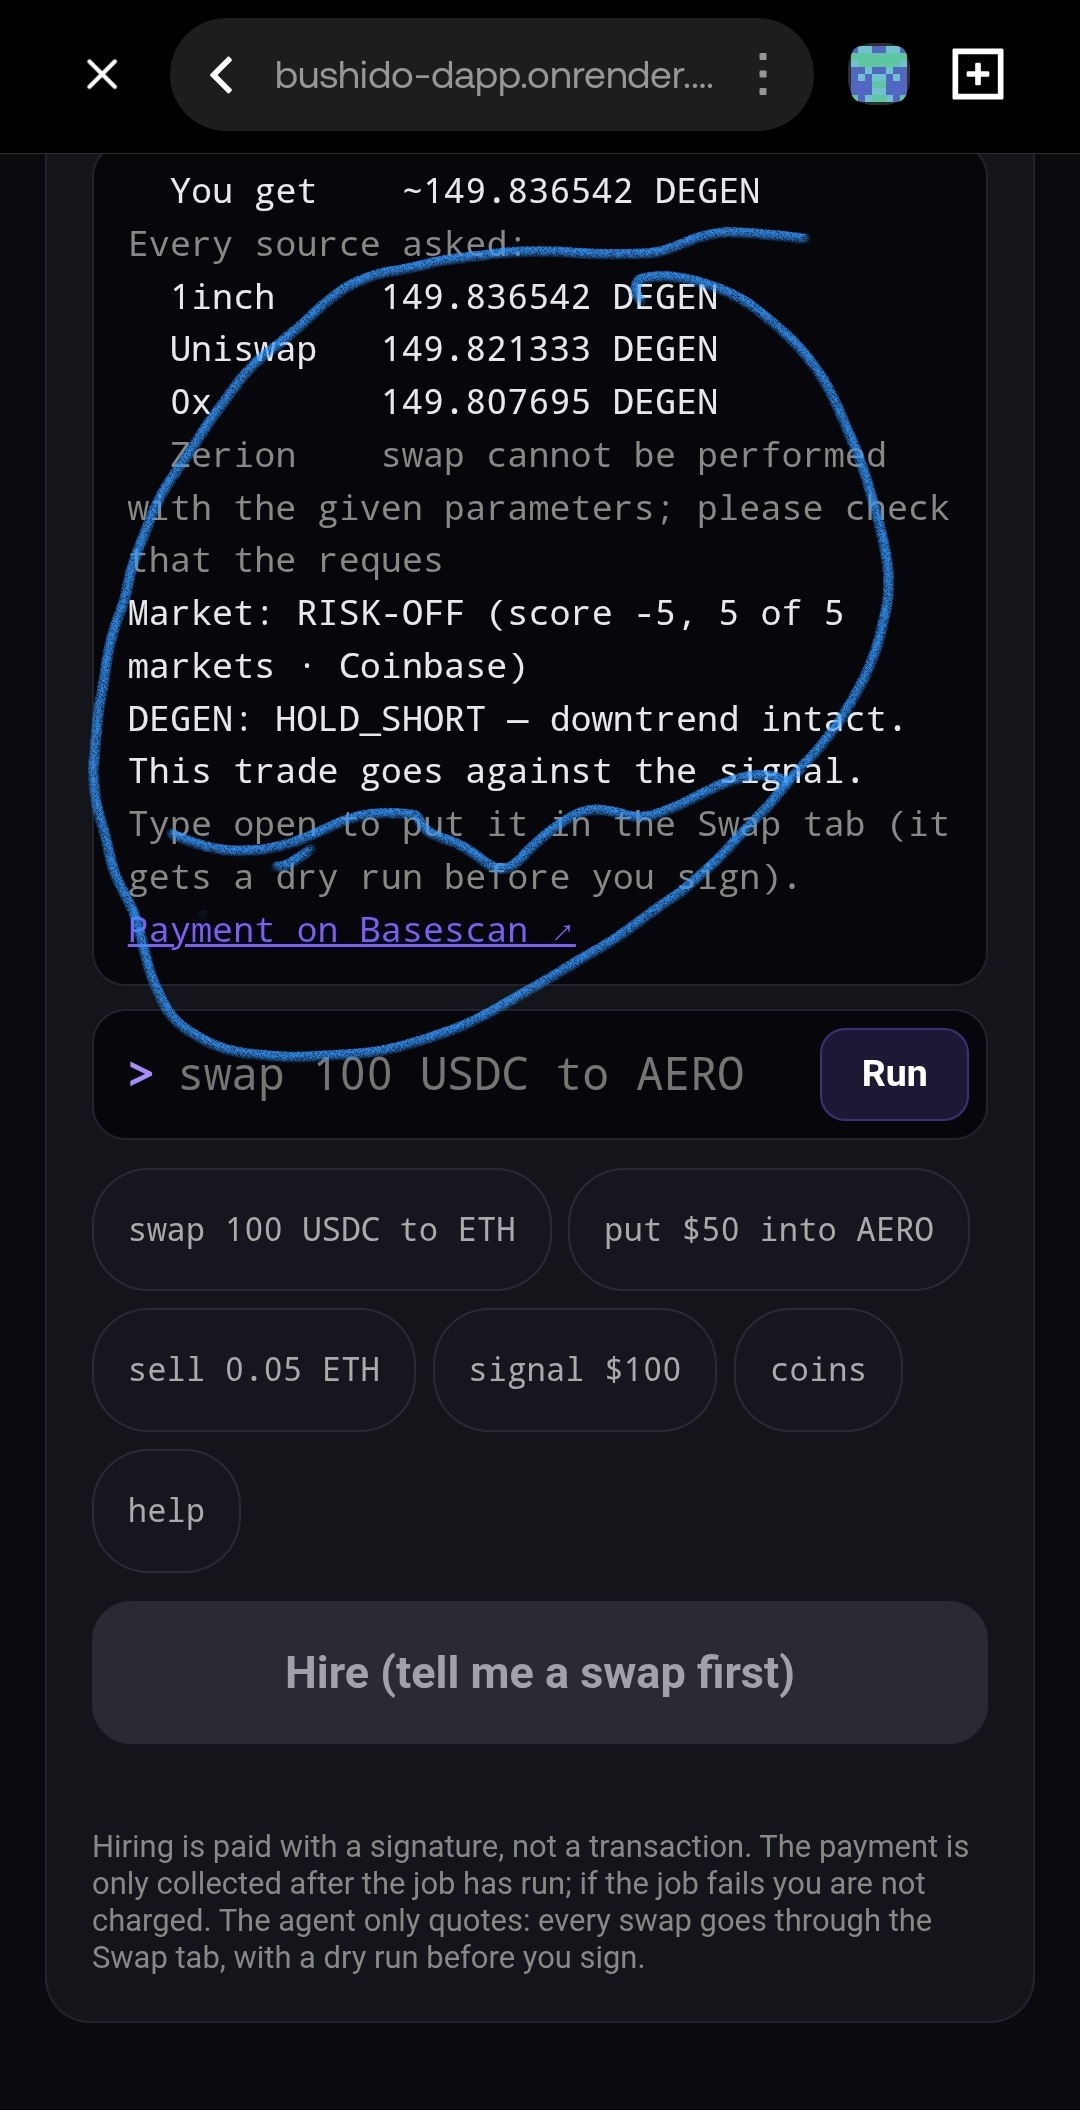
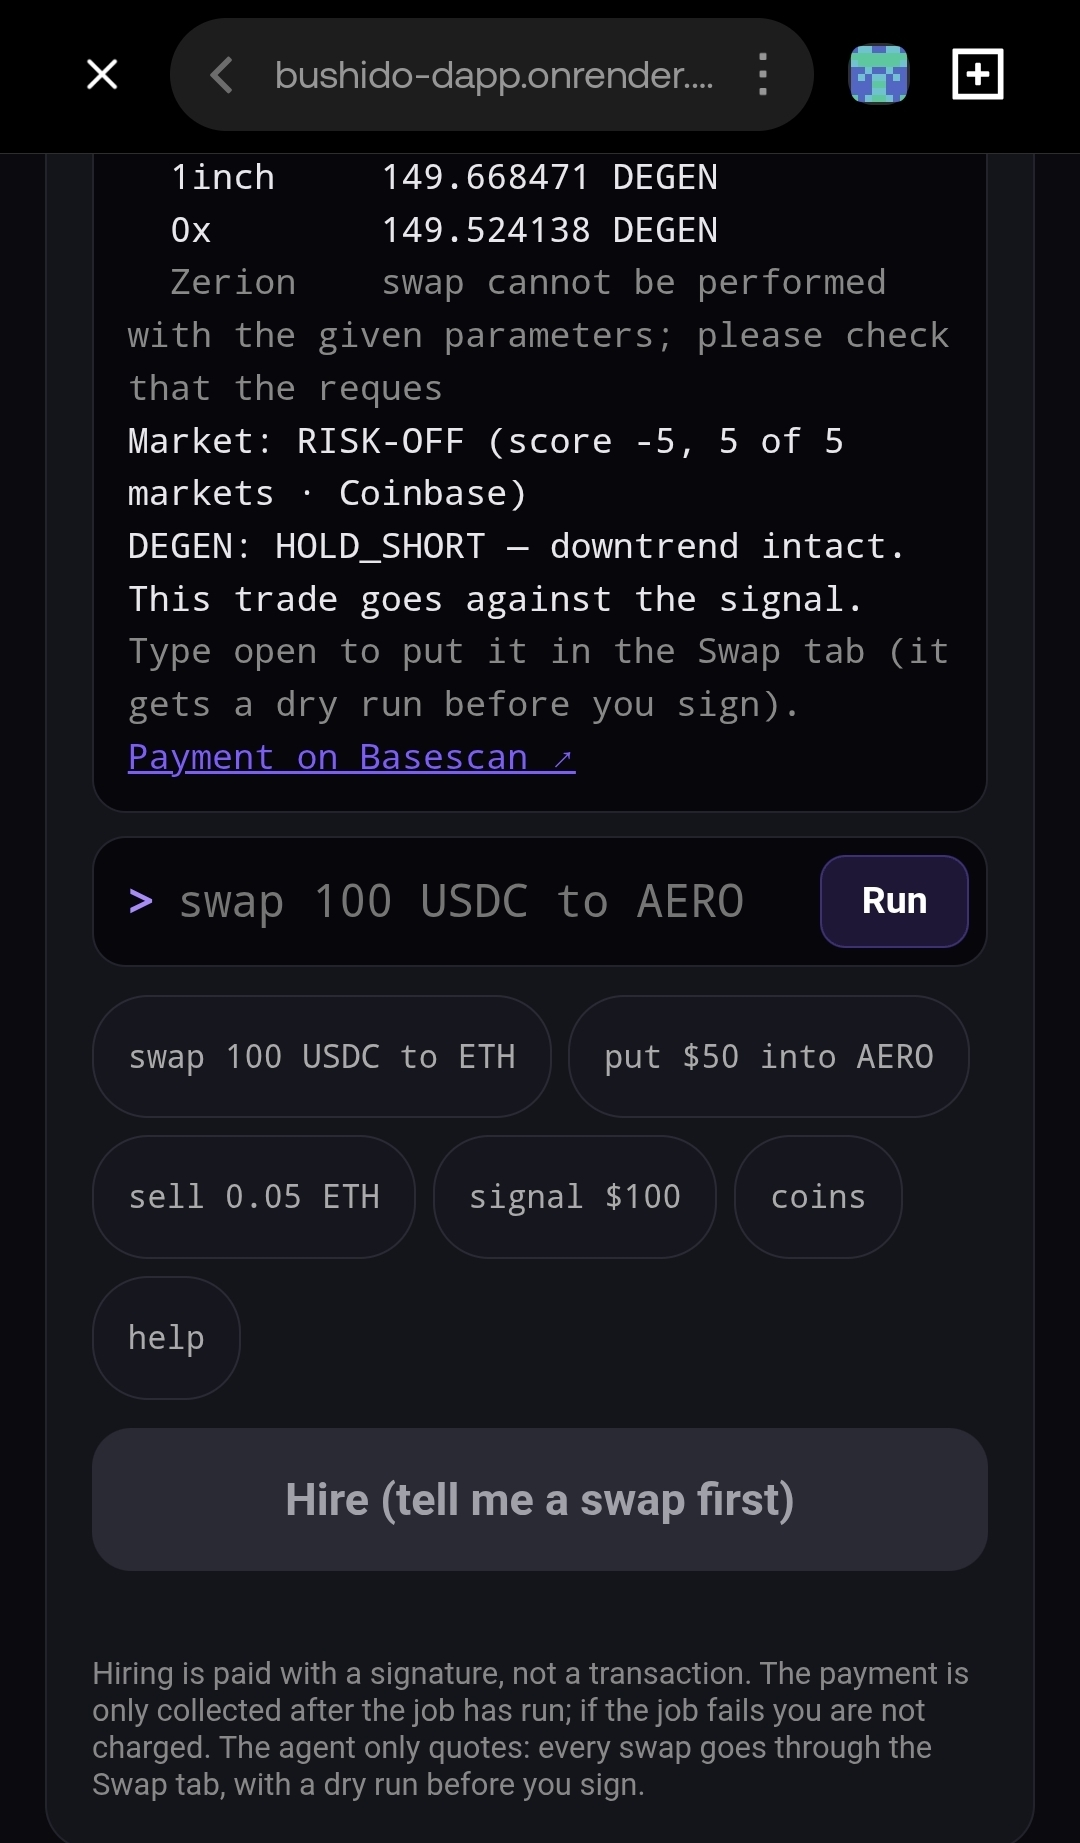
README: use the clean screenshot of the Bushido-Trades job
Claude-Session: https://claude.ai/code/session_01FagBtwiN9my6U5pP7ZJopk

diff --git a/README.md b/README.md
@@ -57,8 +57,8 @@ Each tab has its own link: `https://bushido-dapp.onrender.com/#agent` opens the 
 ### Bushido-Trades in action
 
 A real paid job from the Agent tab (phone screen). The agent asked every source and returned the best price (1inch,
-149.84 DEGEN, ahead of Uniswap and 0x; Zerion could not quote that pair), read the market (RISK-OFF, 5 of 5 markets on
-Coinbase data) and warned that buying DEGEN goes against its downtrend. The 0.01 USDC payment links to Basescan.
+149.67 DEGEN, ahead of 0x; Zerion could not quote that pair), read the market (RISK-OFF, 5 of 5 markets on Coinbase
+data) and warned that buying DEGEN goes against its downtrend. The 0.01 USDC payment links to Basescan.
 Nothing trades until you type `open` and sign in the Swap tab, after a dry run.
 
 <img src="docs/images/agent-job-degen.jpg" alt="Bushido-Trades job result in the Agent tab: quotes from 1inch, Uniswap and 0x for DEGEN, the market regime and the trend warning" width="360">

diff --git a/CHANGELOG.md b/CHANGELOG.md
@@ -12,7 +12,7 @@ and **the logic behind it**. Full detail, tests and caveats are on the linked PR
 ## README: a real Bushido-Trades job, and the A2A/MCP endpoints
 
 - README gets a "Bushido-Trades in action" section with the owner's phone screenshot of a real paid job (USDC to
-  DEGEN: best quote 1inch, the market regime, the trend warning, the Basescan payment link), saved as
+  DEGEN: best quote 1inch ahead of 0x, the market regime, the trend warning, the Basescan payment link), saved as
   `docs/images/agent-job-degen.jpg`, plus where other agents reach it (A2A, MCP, x402) and its 8004scan page.
 - The API reference row for the agent now lists `/a2a`, `/mcp` and which `.well-known` file is which.
 - Docs only: no code change.
